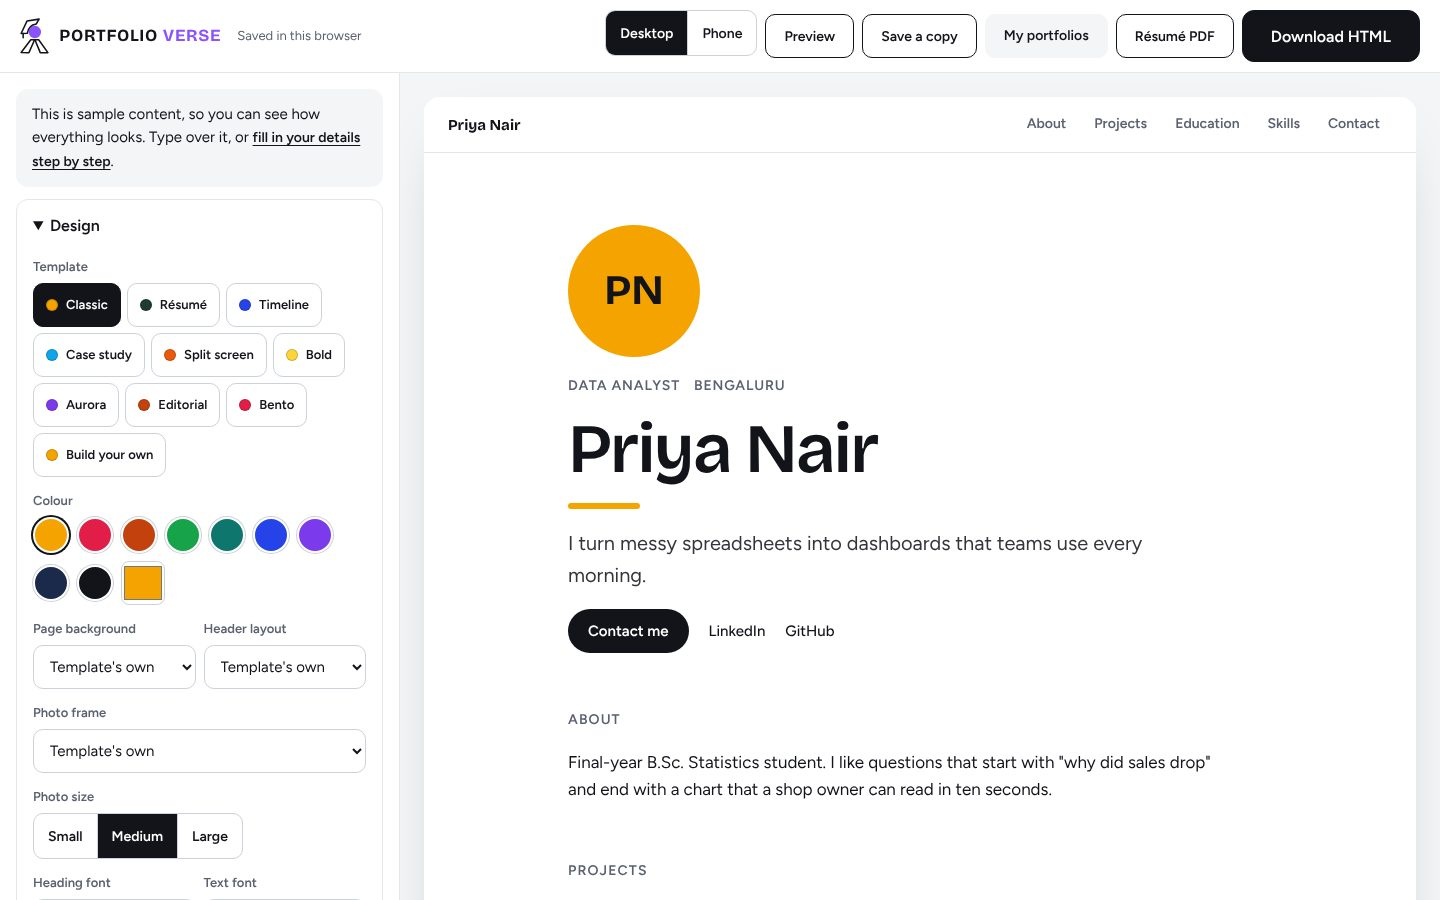
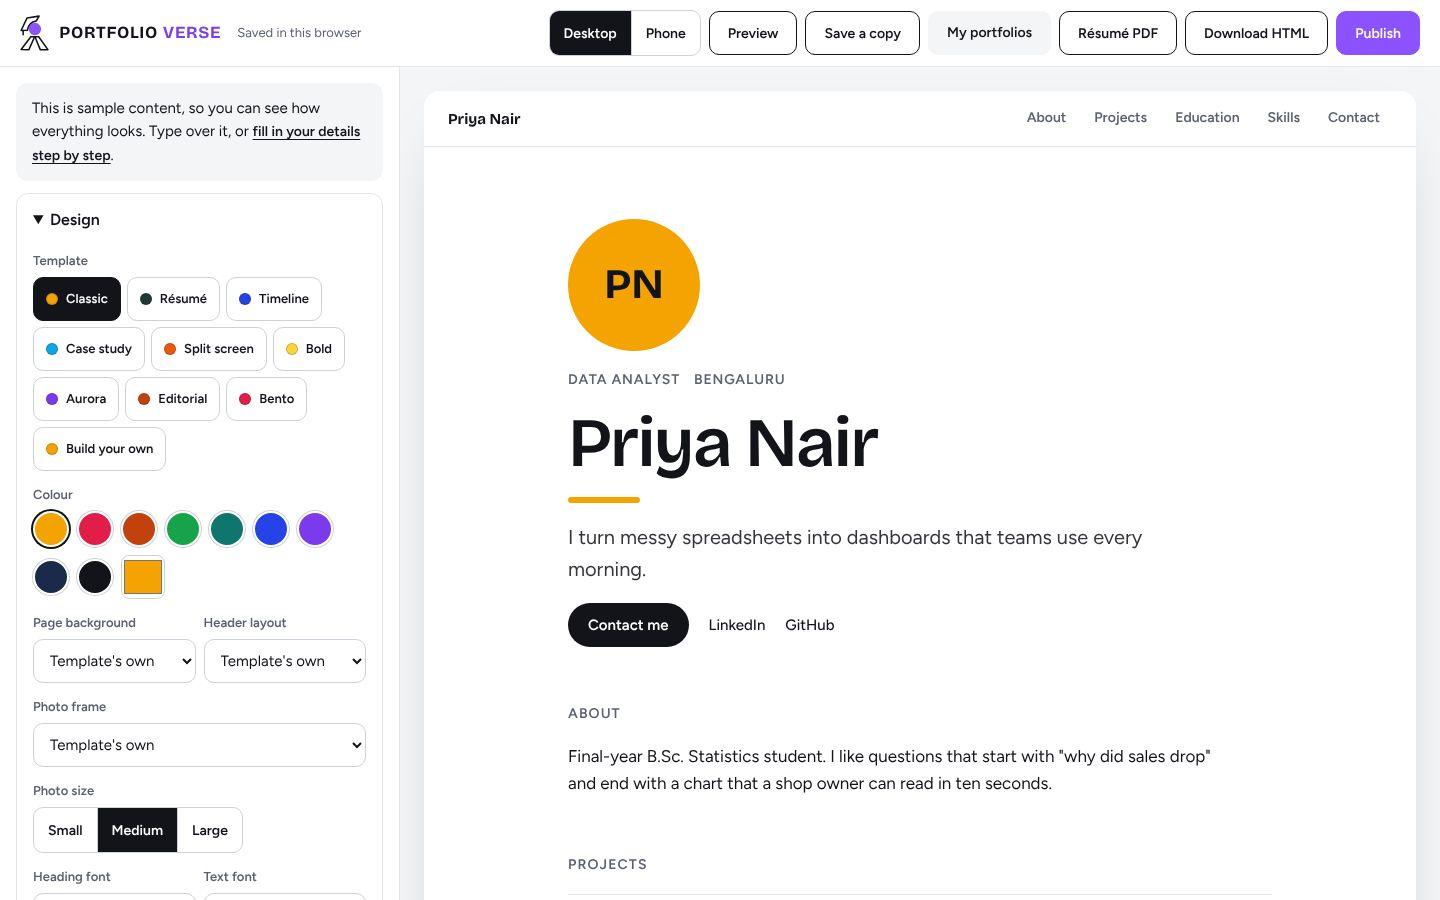
Bring the README, privacy page and screenshots up to date
- README: Google sign-in and profiles, publishing at /u/<username>, the credit line, the
  account-based feedback wall with pins, replies and the admin tools, unique visitor counting,
  the Supabase setup files and all five environment variables, updated tests and structure.
- Privacy page: covers publishing, the account-based feedback wall and the credit line.
- New landing and editor screenshots (Publish button, numbers, sign-in wording).
- Small comment fixes in lib/store.ts and supabase/site_stats.sql.

Claude-Session: https://claude.ai/code/session_01JH6qCrjurY9z6m8puoqDBq

diff --git a/app/privacy/page.tsx b/app/privacy/page.tsx
@@ -4,7 +4,7 @@ import SiteFooter from "@/components/SiteFooter";
 
 export const metadata: Metadata = {
   title: "Privacy",
-  description: "PORTFOLIO-VERSE keeps your portfolio in your own browser. No account, no tracking.",
+  description: "PORTFOLIO-VERSE keeps your portfolio in your own browser until you publish it. Google sign-in, no tracking.",
 };
 
 // What the site does with people's information, in plain words. Keep it true to the code:
@@ -15,13 +15,16 @@ export default function PrivacyPage() {
       <SiteHeader />
       <main className="wrap simple legal">
         <h1 className="display h-page">Privacy</h1>
-        <p className="lead">Short version: your portfolio stays in your browser. Your account holds only your name, email and Google photo, and we do not track you.</p>
+        <p className="lead">
+          Short version: your portfolio stays in your browser until you choose to publish it. Your account holds only your name, email and Google
+          photo, and we do not track you.
+        </p>
 
         <h2>What stays on your device</h2>
         <ul>
           <li>
             Everything you type into the builder, every photo you add and every portfolio you save is kept in your own browser (IndexedDB and
-            local storage). It is not sent to us, and we have no copy of it.
+            local storage). It is not sent to us, and we have no copy of it, unless you press Publish (see below).
           </li>
           <li>
             Reading a résumé PDF and removing a photo&apos;s background both happen inside your browser. The files never leave
@@ -72,17 +75,27 @@ export default function PrivacyPage() {
         <h2>The feedback wall</h2>
         <ul>
           <li>
-            If you add a note to the feedback wall on the home page, its name, topic and message are stored on our database
-            (Supabase), with a random code from your browser that allows one note per browser.
+            You need to sign in with Google to add a note to the feedback wall. Its name, topic and message are stored on our
+            database (Supabase) with your account, which allows one note per person and lets you edit it from any device.
           </li>
           <li>Notes are checked by us before anyone else can see them. Once approved, a note is public on the home page.</li>
           <li>Only add a name you are happy to show publicly; a first name is enough. To have a note removed, ask us.</li>
         </ul>
 
+        <h2>Publishing your site</h2>
+        <ul>
+          <li>
+            When you press Publish, the portfolio open in the editor is turned into one HTML file and stored on our storage
+            (Supabase), linked to your account. Anyone with your link (/u/your-username) can see it.
+          </li>
+          <li>You can publish one site at a time. Publishing again replaces it; Take down deletes the file and the link stops working.</li>
+          <li>Downloaded and published portfolios end with a small &quot;Made in • PORTFOLIO-VERSE&quot; link back to this site.</li>
+        </ul>
+
         <h2>Your portfolio is public once you publish it</h2>
         <p>
-          When you put your downloaded portfolio online, everything in it, including your email, phone number and any
-          résumé file you added, can be seen by anyone. Only include what you are happy to share.
+          Whether you publish here or put your downloaded file online yourself, everything in it, including your email, phone
+          number and any résumé file you added, can be seen by anyone. Only include what you are happy to share.
         </p>
       </main>
       <SiteFooter />

diff --git a/lib/store.ts b/lib/store.ts
@@ -1,7 +1,8 @@
 import type { Portfolio } from "@/lib/portfolio";
 import { getTemplate } from "@/lib/templates";
 
-// Everything is kept in this browser (IndexedDB), because there are no accounts yet.
+// Everything is kept in this browser (IndexedDB). Accounts (Google sign-in) do not hold portfolios; only a
+// published site is stored on the server (see lib/publish.ts).
 // IndexedDB is used and not localStorage, so that photos fit.
 //
 // A browser can hold many portfolios. Three things are stored:

diff --git a/README.md b/README.md
@@ -2,7 +2,7 @@
 
 [![CI](https://github.com/aryannone/Portfolio-Verse/actions/workflows/ci.yml/badge.svg?branch=app)](https://github.com/aryannone/Portfolio-Verse/actions/workflows/ci.yml)
 
-**A free portfolio website builder for students and first-job seekers.** Fill in your details (or import your résumé), pick one of nine templates, tweak the design, and download your whole site as a single HTML file. No sign-up, no code, no cost.
+**A free portfolio website builder for students and first-job seekers.** Fill in your details (or import your résumé), pick one of nine templates, tweak the design, then download your whole site as a single HTML file or publish it with your own link. Sign in with Google, no code, no cost.
 
 **Live:** [portfolio-verse-tau.vercel.app](https://portfolio-verse-tau.vercel.app)
 
@@ -10,10 +10,10 @@
 
 ## Why I built it
 
-Most students need a portfolio site for internship and job applications, but website builders are either paid, need an account, or produce generic pages. PORTFOLIO-VERSE works entirely in the browser:
-- nothing to sign up for
-- nothing to pay
-- your data never leaves your device
+Most students need a portfolio site for internship and job applications, but website builders are either paid, lock your site into their platform, or produce generic pages. PORTFOLIO-VERSE:
+- costs nothing
+- keeps your portfolio in your own browser while you build it
+- gives you the finished site as one file you own, or a live link in one click
 
 ## Features
 
@@ -22,16 +22,20 @@ Most students need a portfolio site for internship and job applications, but web
   - colours, fonts, backgrounds, header layouts, photo frames and scroll animations, set for the whole page or per section
   - reorder sections and entries
   - desktop and phone preview
+- **Google sign-in and profiles:** the home page, templates and feedback wall are open to everyone; building needs a Google account. Each person has a profile with their name, photo and a username for their site's link.
+- **Publish:** one click puts the portfolio live at `portfolio-verse-tau.vercel.app/u/<username>`, full-page with nothing of the builder around it. One published site per person; publishing again replaces it, and it can be taken down any time.
+- **One-file download:** the `.html` file holds the styles, photos and interactions, and works offline or on any host (GitHub Pages, Netlify, Vercel...). Downloaded and published sites end with a small "Made in • PORTFOLIO-VERSE" credit.
 - **Résumé import:** reads a résumé PDF in the browser and fills in the details.
 - **Résumé PDF export:** generates a clean résumé from the same details.
 - **Photo background removal:** a person-segmentation model running in the browser cuts you out of your photo for the contact card.
 - **Photos fit their frames:** every photo fills its frame in every template, whatever its shape, and you choose which part of your own photo stays in view.
-- **Feedback wall:** visitors pick a sticky note, choose a topic and a handwriting style, sign it, and drag it onto a cork board on the home page. One note per browser; notes appear for everyone once the owner approves them, and the writer sees theirs straight away.
+- **Feedback wall:** signed-in visitors pick a sticky note, choose a topic and a handwriting style, sign it, and drag it onto a cork board on the home page. One note per Google account, editable from any device; notes appear for everyone once the owner approves them (an edited note is approved again). The owner can pin notes (a heart in the corner) and reply to them.
+- **Admin page** (`/admin/feedback`, behind a secret key): approve, hide, pin, reply to or delete notes, approve all at once, search and sort.
+- **Home page numbers:** unique visitors, portfolios downloaded and feedback notes, all counted for real. A browser counts once; a signed-in person counts once across all their devices.
 - **Interactive contact section:** a 3D character that follows the pointer, watches visitors type and cheers when a message is sent; or your photo, a design, or nothing. The message form works through the visitor's email app or straight to your inbox.
 - **Details panel:** visitors tap a project or job to open a side panel (a bottom sheet on phones) with the full story and photos.
 - **Section navigation:** a sticky section bar, reading progress and back-to-top in every portfolio.
 - **Many portfolios per browser:** autosave, rename, copy and delete. Details and designs are independent, so any details can go in any template.
-- **One-file export:** the downloaded `.html` holds the styles, photos and interactions, and works offline or on any host (GitHub Pages, Netlify, Vercel...).
 - **Accessible:** keyboard-friendly, labelled controls, and every animation is turned off for people who ask for reduced motion.
 
 | Template gallery | Editor |
@@ -45,22 +49,28 @@ Most students need a portfolio site for internship and job applications, but web
 ## Tech stack
 
 - **Next.js 15 (App Router), React 19, TypeScript**, deployed on **Vercel**
-- **IndexedDB** for everyone's portfolios, kept in their own browser
-- **Supabase** (Postgres, through Next.js route handlers) only for the public feedback wall
+- **IndexedDB** for everyone's portfolios while they build, kept in their own browser
+- **Supabase**: Auth (Google sign-in), Postgres (profiles, feedback, counters) and Storage (published sites)
 - **MediaPipe Selfie Segmenter** (WebAssembly) for background removal
 - **pdf.js** to read résumés, **jsPDF** to write them
 - Hand-written CSS with custom properties and container queries; no UI library
 
 ## Engineering highlights
 
-- **Portfolios never leave the device.**
-  - Every builder feature, including machine-learning background removal and PDF parsing, runs on the user's device.
-  - Running costs stay at zero, and the privacy story is simple: we never receive anyone's portfolio.
-  - The only server code is the feedback wall: two small route handlers (`app/api/feedback`). They validate notes with the same rules as the browser (`lib/feedback.ts`), store them in Supabase with row-level security on and no public policies, and enforce one note per browser with a unique key. A private admin page approves notes.
+- **The builder runs on the device.**
+  - Every builder feature, including machine-learning background removal and PDF parsing, runs in the browser. Portfolios are only sent to the server when their owner presses Publish.
   - The ML model and PDF engine are served by the site itself and loaded only when used (`scripts/copy-vendor.mjs`).
+- **Small, locked-down server.**
+  - Every table has row-level security on. The feedback, counter and visitor tables have no public policies at all: only the site's server, with the service role key, reaches them (`lib/supabaseRest.ts`). People can read and change only their own profile, and only its name and username.
+  - Notes are checked with the same rules in the browser and on the server (`lib/feedback.ts`), and tied to the signed-in account (`app/api/feedback`).
+  - `middleware.ts` keeps the sign-in session fresh and sends signed-out people from the building pages to `/signin`, then back.
+- **Safe publishing.**
+  - The browser uploads the HTML straight to a private Storage bucket, into a folder only its owner may write to (`supabase/sites.sql`), so large sites never pass through a serverless function.
+  - `/u/<username>` serves the file with a `Content-Security-Policy: sandbox` header without `allow-same-origin` (`lib/publish.ts`). A published page runs as if on its own site, so its scripts can never read this site's cookies or anyone's sign-in session.
+- **Honest numbers.** Each browser gets a random, anonymous id and is recorded once; signing in links it to the account, and the count is "signed-in people + browsers that never signed in" (`lib/visitors.ts`, `supabase/visitors.sql`).
 - **One renderer, three places.**
   - `components/PortfolioView.tsx` renders every template from one markup tree.
-  - The template's interactions (`lib/runtime.ts`) are written as a self-contained function. It runs in the editor and on preview pages, and is serialised into the downloaded HTML file (`lib/exportHtml.ts`), so the exported site behaves exactly like the preview.
+  - The template's interactions (`lib/runtime.ts`) are written as a self-contained function. It runs in the editor and on preview pages, and is serialised into the downloaded and published HTML file (`lib/exportHtml.ts`), so the exported site behaves exactly like the preview.
 - **Templates as styles, not code.** Each template is a set of CSS rules over shared markup (`public/portfolio.css`), so the editor's options combine with any template.
 - **Safe, versioned storage.**
   - Portfolios are saved per id in IndexedDB with transactional updates (`lib/store.ts`).
@@ -86,13 +96,15 @@ Work done for these scores:
 
 ## Tests
 
-Every push runs the [CI workflow](.github/workflows/ci.yml): type-check, unit tests, a production build and browser tests.
+Every push runs the [CI workflow](.github/workflows/ci.yml): type-check, unit tests, a production build and browser tests. The tests run without Supabase, so sign-in is off and server answers are simulated where needed.
 
-- **Unit tests** (Vitest, `tests/unit`): link handling, file names, samples for every template, moving details between templates, upgrading portfolios saved by older versions, and the feedback note rules.
+- **Unit tests** (Vitest, `tests/unit`): link handling, file names, samples for every template, moving details between templates, upgrading portfolios saved by older versions, the feedback note rules, sign-in redirects, and publishing (the sandbox never shares this site's origin, safe usernames).
 - **Browser tests** (Playwright, `tests/e2e`):
-  - **Landing page:** the intro plays and can be skipped; every section appears on scroll; the four steps advance; the privacy page; the link preview image.
-  - **Feedback wall:** a note needs a name; it sticks by button or by dragging; one per browser, even after a reload; the API without Supabase and the admin key check.
-  - **Editor:** typing shows in the preview and survives a reload; the downloaded HTML file works on its own; photo format checks; a résumé PDF made by the site imports back; "Save a copy" adds a second portfolio.
+  - **Landing page:** the intro plays and can be skipped; every section appears on scroll; the four steps advance; the privacy page; the link preview image; the home page numbers.
+  - **Feedback wall:** signed out, adding a note asks for Google sign-in; a note needs a name; it sticks by button or by dragging; one per account, even after a reload; editing a note; pinned notes and replies; the admin page's search, sort, pin, reply and approve all; the API without Supabase and the admin key check.
+  - **Editor:** typing shows in the preview and survives a reload; the downloaded HTML file works on its own and ends with the credit line; photo format checks; a résumé PDF made by the site imports back; "Save a copy" adds a second portfolio; sample content cannot be published.
+  - **Publishing:** an unpublished link shows a friendly page; the publish API needs a signed-in person.
+  - **Sign-in:** the sign-in page offers Google and says what is shared; without Supabase every page stays open.
 
 ```bash
 npm run typecheck
@@ -104,27 +116,23 @@ npm run test:e2e    # browser tests (starts the built site)
 ## Project structure
 
 ```
-app/          pages: landing, /start (details form), /templates, /editor, /saved, /privacy, /admin/feedback
-              api/feedback: the feedback wall's routes
-components/   UI: PortfolioView (templates), Editor, Fields, StartForm, ContactBlock, StepsShowcase, FeedbackWall, Intro...
-lib/          portfolio.ts (data model), store.ts (IndexedDB), runtime.ts (portfolio interactions), feedback.ts,
-              exportHtml.ts, resumeImport.ts, resumePdf.ts, cutout.ts, templates.ts, samples.ts
-public/       portfolio.css (all template styles, also copied into exports), logo
-supabase/     feedback.sql (the feedback wall's table)
+app/          pages: landing, /start (details form), /templates, /editor, /saved, /profile, /signin,
+              /privacy, /admin/feedback, /u/<username> (published sites)
+              api/feedback (wall, own note, admin), api/publish, api/stats; auth/callback, auth/signout
+components/   UI: PortfolioView (templates), Editor, PublishButton, Fields, StartForm, ContactBlock,
+              FeedbackWall, FeedbackAdmin, SiteStats, UserMenu, GoogleSignIn, ProfileForm, MySite, Intro...
+lib/          portfolio.ts (data model), store.ts (IndexedDB), runtime.ts (portfolio interactions),
+              exportHtml.ts, publish.ts, feedback.ts, visitors.ts, supabaseRest.ts (server only),
+              supabase/ (sign-in clients), resumeImport.ts, resumePdf.ts, cutout.ts, templates.ts, samples.ts
+middleware.ts sign-in session and the signed-in-only pages
+public/       portfolio.css (all template styles, also copied into exports), logo-mark.svg (the logo)
+supabase/     SQL to set up the database (see below)
 docs/         README screenshots
 ```
 
 ## Run it locally
 
-Requires Node.js 18.18 or newer. The builder needs no settings. The feedback wall needs three environment variables; without them the wall shows as empty and closed:
-
-| Variable | What it is |
-| --- | --- |
-| `SUPABASE_URL` | Supabase project URL (Project Settings, API) |
-| `SUPABASE_SERVICE_ROLE_KEY` | Supabase service role key: server only, never exposed to the browser |
-| `FEEDBACK_ADMIN_KEY` | Any long secret you choose, at least 12 characters; opens `/admin/feedback` |
-
-Create the table once by running `supabase/feedback.sql` in Supabase's SQL editor.
+Requires Node.js 18.18 or newer. The builder works with no settings: without them sign-in is off, every page is open, and the feedback wall, numbers and publishing show as not set up.
 
 ```bash
 npm install
@@ -133,6 +141,20 @@ npm run dev
 
 Open http://localhost:3000. `npm run build` makes a production build.
 
+### Supabase and Vercel settings
+
+| Variable | What it is |
+| --- | --- |
+| `NEXT_PUBLIC_SUPABASE_URL` | Supabase project URL, for Google sign-in in the browser (public) |
+| `NEXT_PUBLIC_SUPABASE_PUBLISHABLE_KEY` | Supabase publishable key (public by design) |
+| `SUPABASE_URL` | The same project URL, for the server |
+| `SUPABASE_SERVICE_ROLE_KEY` | Supabase service role key: server only, never exposed to the browser |
+| `FEEDBACK_ADMIN_KEY` | Any long secret you choose, at least 12 characters; opens `/admin/feedback` |
+
+Set up the database once by running each file in `supabase/` in Supabase's SQL editor (each is safe to run again): `feedback.sql`, `site_stats.sql`, `profiles.sql`, `sites.sql`, `visitors.sql`.
+
+Google sign-in also needs, in Supabase, **Authentication → Sign In / Providers → Google** turned on with a Google OAuth client, and **Authentication → URL Configuration** set to the site's address (Site URL, plus `https://<site>/**` as a redirect URL).
+
 ## Privacy
 
-Portfolios are stored only in the user's browser. There is no account, analytics or tracking. Feedback notes (name, topic, message and a random browser id) are stored in Supabase, and shown publicly only after approval. See [/privacy](https://portfolio-verse-tau.vercel.app/privacy).
+Portfolios are kept in the user's browser while they build; only a site they publish is stored on the server. Accounts hold the Google name, email and photo, plus the chosen name and username. There are no analytics services or tracking: visitors are counted with a random, anonymous id. Feedback notes are stored with the writer's account and shown publicly only after approval. See [/privacy](https://portfolio-verse-tau.vercel.app/privacy).
